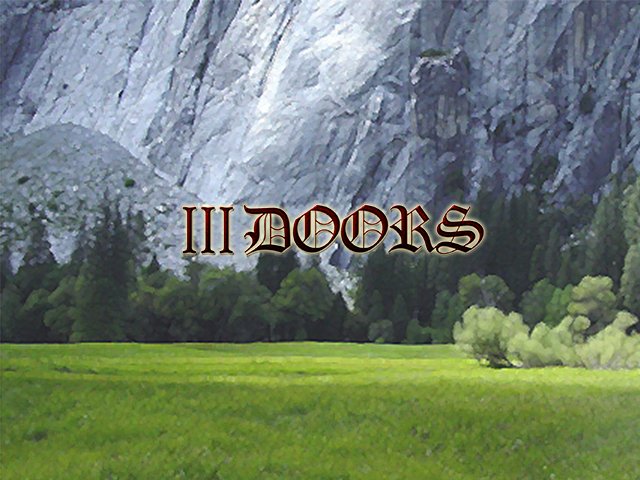
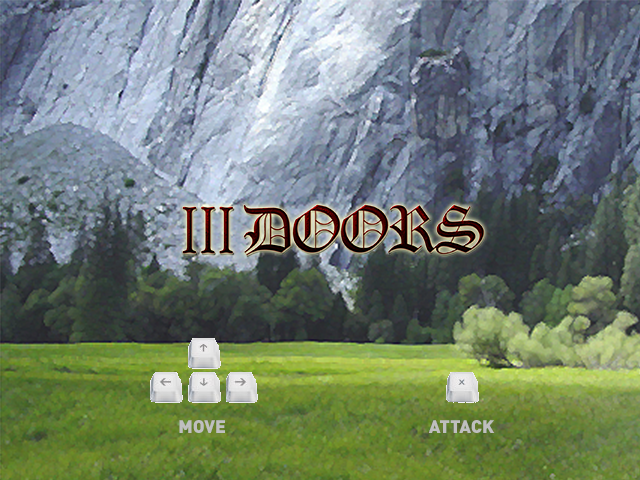
Signed-off-by: Hatrixor <jihed_kallel@live.com>

diff --git a/app/js/game.js b/app/js/game.js
@@ -47,10 +47,10 @@ var game = {
     // Run on game resources loaded.
     "loaded" : function () {
         
-        me.input.bindKey(me.input.KEY.Q, "left");
-        me.input.bindKey(me.input.KEY.D, "right");
-        me.input.bindKey(me.input.KEY.Z, "up");
-        me.input.bindKey(me.input.KEY.S, "down");
+        me.input.bindKey(me.input.KEY.LEFT, "left");
+        me.input.bindKey(me.input.KEY.RIGHT, "right");
+        me.input.bindKey(me.input.KEY.UP, "up");
+        me.input.bindKey(me.input.KEY.DOWN, "down");
         me.sys.gravity=null;
         me.state.set(me.state.MENU, new game.TitleScreen());
   // set the "Play/Ingame" Screen Object

diff --git a/app/js/entities/entities.js b/app/js/entities/entities.js
@@ -23,7 +23,9 @@ game.doorEntity = me.Entity.extend({
         this.renderable.setCurrentAnimation("closed");
         this.z=4;
         this.body.removeShape(this.body.getShape());
-        this.body.addShape( new me.Rect( this.body.pos.x, this.body.pos.y+34, 80, 10 ) );
+        this.body.addShape( new me.Rect( this.body.pos.x, this.body.pos.y, 80, 10 ) );
+        
+        this.anchorPoint.set(0.5, 0);
     },
 
     /**

diff --git a/app/js/screens/play.js b/app/js/screens/play.js
@@ -6,7 +6,7 @@ game.PlayScreen = me.ScreenObject.extend({
         // reset the score
         game.data.score = 0;
     // load a level
-    me.levelDirector.loadLevel("room0");
+    me.levelDirector.loadLevel("intro");
   //  me.Viewport.follow(game.PlayerEntity.pos, me.game.Viewport.AXIS.VERTICAL);
         // add our HUD to the game world
         this.HUD = new game.HUD.Container();
